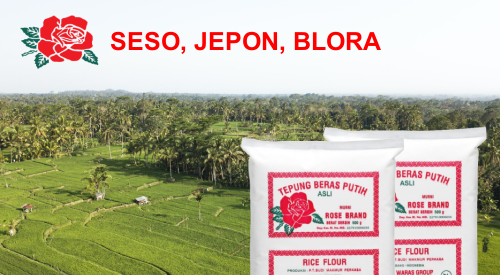
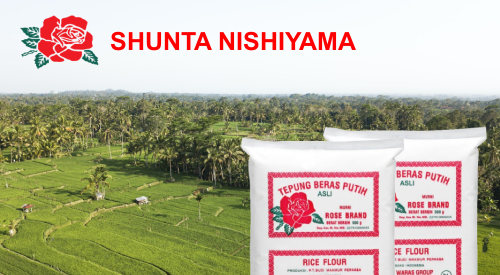
test

Changed region(s): [[0.27, 0.1164, 0.78, 0.2036]]

diff --git a/twit.js b/twit.js
@@ -1,0 +1,37 @@
+const Twitter = require("twitter-lite");
+const fs = require("fs");
+
+async function sendTweet(text, articleUrl) {
+  const client = new Twitter({
+    consumer_key: process.env.CONSUMER_KEY,
+    consumer_secret: process.env.CONSUMER_SECRET,
+    access_token_key: process.env.ACCESS_TOKEN_KEY,
+    access_token_secret: process.env.ACCESS_TOKEN_SECRET,
+  });
+
+  const uploadClient = new Twitter({
+    subdomain: 'upload',
+    consumer_key: process.env.CONSUMER_KEY,
+    consumer_secret: process.env.CONSUMER_SECRET,
+    access_token_key: process.env.ACCESS_TOKEN_KEY,
+    access_token_secret: process.env.ACCESS_TOKEN_SECRET,
+  });
+
+  const image = fs.readFileSync("./test.png", "base64");
+  try {
+    const uploadResult = await uploadClient.post("media/upload", {
+      media_data: image,
+    });
+
+    const tweet = text + "\n" + articleUrl;
+
+    await client.post("statuses/update", {
+      status: tweet,
+      media_ids: uploadResult.media_id_string,
+    });
+  } catch (error) {
+    console.log("err", error);
+  }
+}
+
+module.exports = sendTweet;

diff --git a/index.js b/index.js
@@ -1,5 +1,7 @@
 const wiki = require("wikijs").default;
+const fs = require('fs');
 const generateImage = require("./generateImage");
+const sendTweet = require('./twit');
 
 const TARGET_SYLLABLE = 6;
 const vocal = ["a", "i", "u", "e", "o"];
@@ -13,6 +15,18 @@ function isAlphabet(char) {
 
 function isVocal(char) {
   return vocal.includes(char.toLowerCase());
+}
+
+function getArticleUrl(title) {
+  try {
+    return wiki({ apiUrl: "https://id.wikipedia.org/w/api.php" })
+      .page(title)
+      .then((page) => page.url())
+      .then((url) => url)
+      .catch(() => '')
+  } catch (err) {
+    return '';
+  }
 }
 
 function isNotScientificName(title) {
@@ -99,8 +113,9 @@ async function findTitle() {
     matched = await findMatchedTitle();
     console.log(matched, attempt++);
   }
-  console.log(matched);
-  generateImage(matched);
+  await generateImage(matched);
+  const articleUrl = await getArticleUrl(matched);
+  sendTweet(matched, articleUrl);
 }
 
 findTitle();
